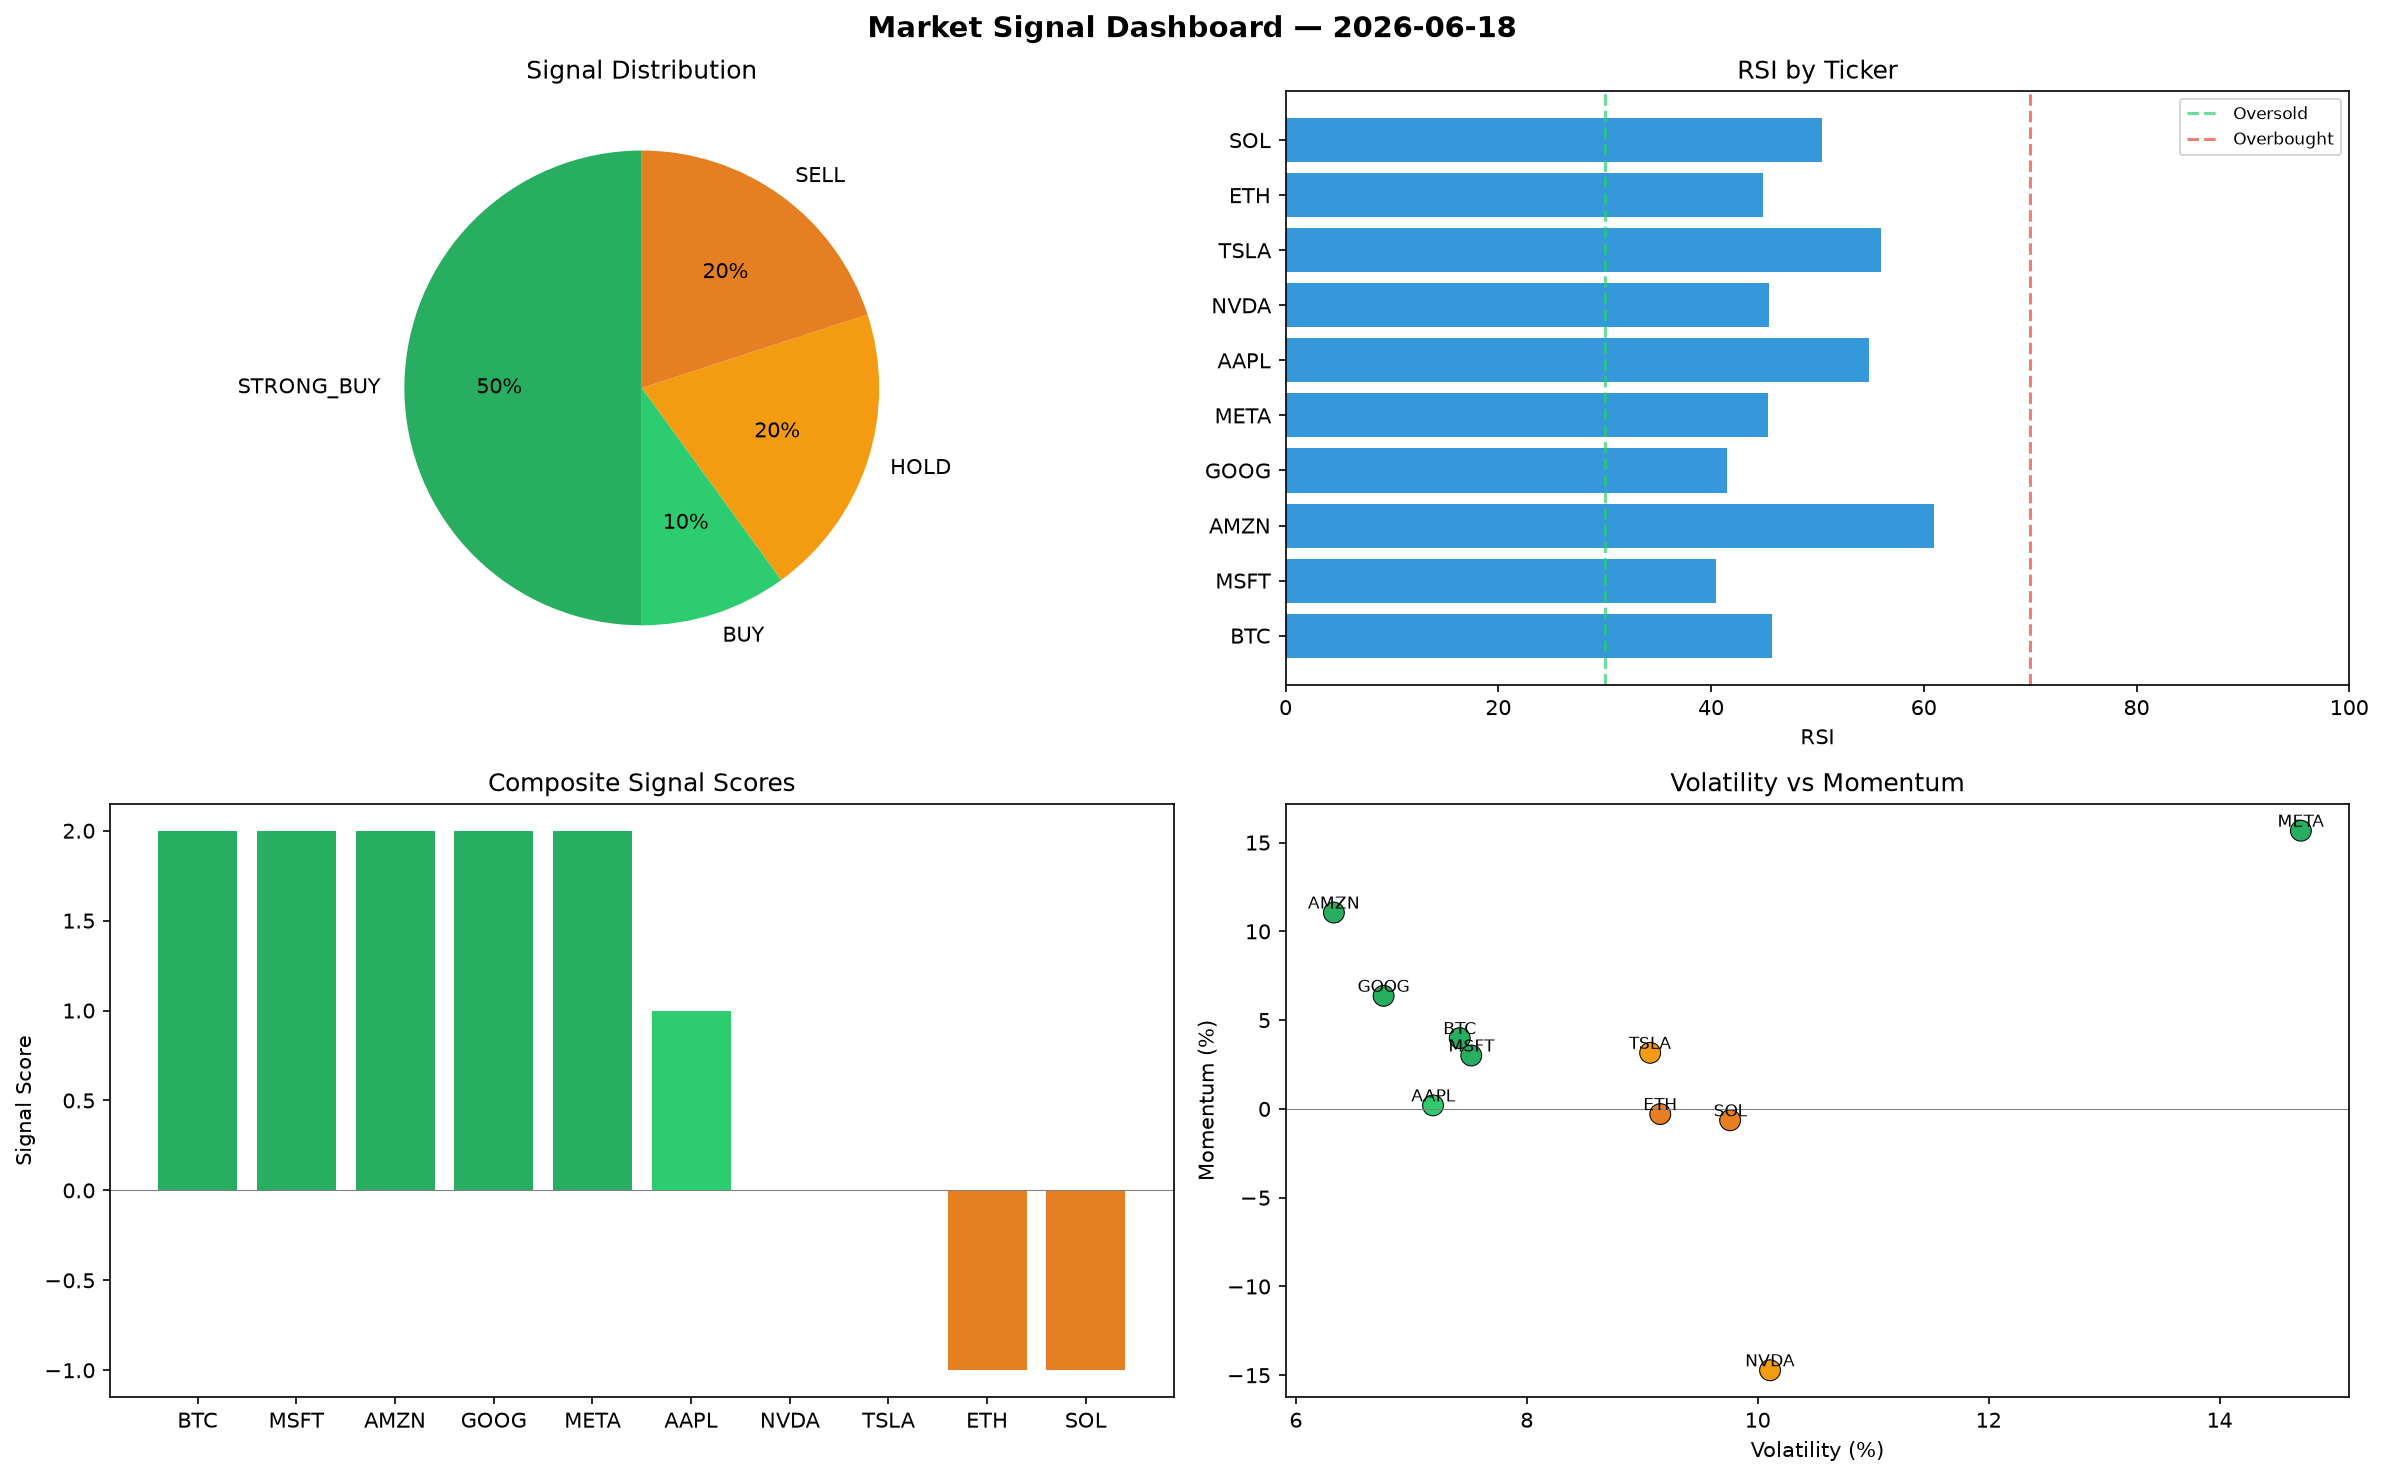
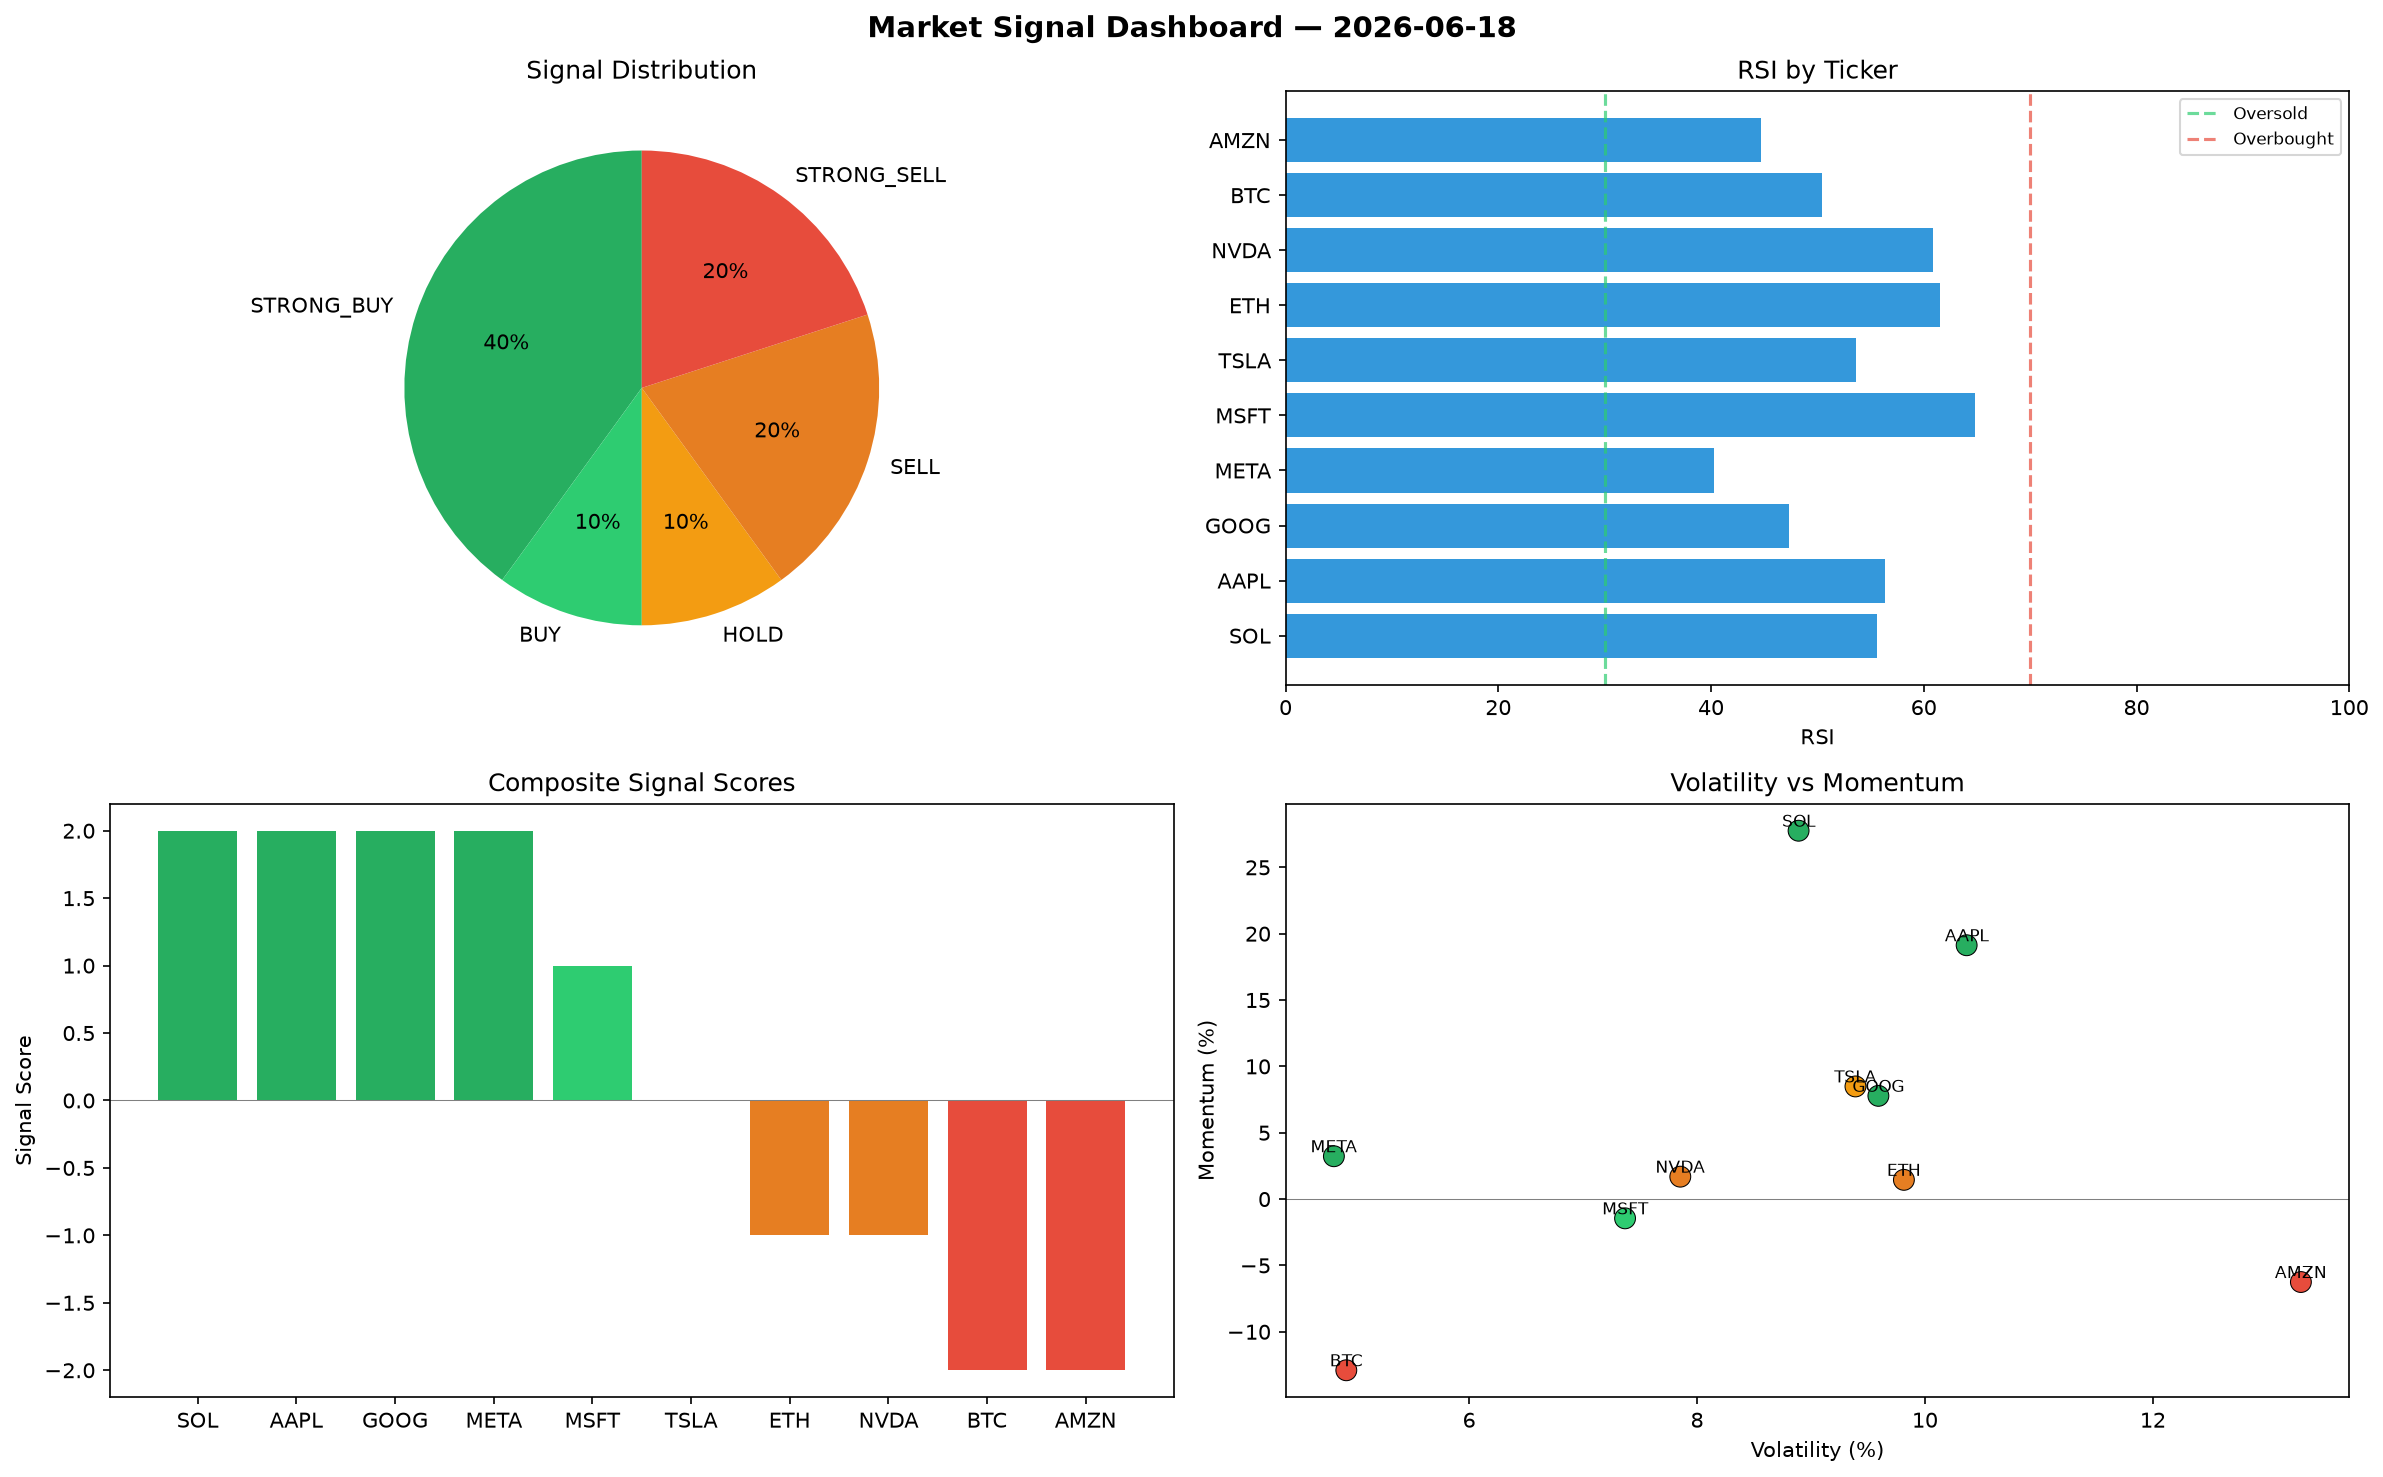
automated-bots: market signals 2026-06-18T12:00

diff --git a/logs/2026-06-18.md b/logs/2026-06-18.md
@@ -1,6 +1,6 @@
 # Market Signal Report — 2026-06-18
 
-**Run ID:** `9ae159a395` | **Buy:** 6 | **Sell:** 2 | **Hold:** 2
+**Run ID:** `776ceeef61` | **Buy:** 5 | **Sell:** 4 | **Hold:** 1
 
 ![Dashboard](2026-06-18_dashboard.png)
 
@@ -8,28 +8,28 @@
 
 | Ticker | Price | Signal | Score | RSI | Momentum | Confidence |
 |--------|-------|--------|-------|-----|----------|------------|
-| BTC | $669.71 | **STRONG_BUY** | 2 | 45.76 | 0.0399 | 0.5 |
-| MSFT | $1061.92 | **STRONG_BUY** | 2 | 40.47 | 0.0301 | 0.5 |
-| AMZN | $408.04 | **STRONG_BUY** | 2 | 60.98 | 0.1106 | 0.5 |
-| GOOG | $3420.68 | **STRONG_BUY** | 2 | 41.54 | 0.0637 | 0.5 |
-| META | $1111.08 | **STRONG_BUY** | 2 | 45.31 | 0.1567 | 0.5 |
-| AAPL | $1876.19 | **BUY** | 1 | 54.84 | 0.002 | 0.25 |
-| NVDA | $3221.4 | **HOLD** | 0 | 45.44 | -0.1472 | 0.0 |
-| TSLA | $104.82 | **HOLD** | 0 | 55.94 | 0.0316 | 0.0 |
-| ETH | $802.92 | **SELL** | -1 | 44.93 | -0.0029 | 0.25 |
-| SOL | $2122.03 | **SELL** | -1 | 50.39 | -0.0064 | 0.25 |
+| SOL | $3204.12 | **STRONG_BUY** | 2 | 55.63 | 0.2776 | 0.5 |
+| AAPL | $4755.89 | **STRONG_BUY** | 2 | 56.32 | 0.1913 | 0.5 |
+| GOOG | $3566.87 | **STRONG_BUY** | 2 | 47.35 | 0.0778 | 0.5 |
+| META | $3878.58 | **STRONG_BUY** | 2 | 40.24 | 0.0323 | 0.5 |
+| MSFT | $3565.27 | **BUY** | 1 | 64.83 | -0.0145 | 0.25 |
+| TSLA | $4365.85 | **HOLD** | 0 | 53.65 | 0.0849 | 0.0 |
+| ETH | $499.04 | **SELL** | -1 | 61.53 | 0.0145 | 0.25 |
+| NVDA | $3963.11 | **SELL** | -1 | 60.91 | 0.0169 | 0.25 |
+| BTC | $23.69 | **STRONG_SELL** | -2 | 50.4 | -0.129 | 0.5 |
+| AMZN | $1844.74 | **STRONG_SELL** | -2 | 44.68 | -0.0625 | 0.5 |
 
 ## Delta vs Yesterday
 
 | Ticker | Today | Yesterday | Price Change | Signal Changed |
 |--------|-------|-----------|-------------|----------------|
-| BTC | STRONG_BUY | STRONG_BUY | 📉 -64.06% | — |
-| MSFT | STRONG_BUY | HOLD | 📉 -44.11% | ⚠ YES |
-| AMZN | STRONG_BUY | HOLD | 📉 -63.35% | ⚠ YES |
-| GOOG | STRONG_BUY | BUY | 📈 180.76% | ⚠ YES |
-| META | STRONG_BUY | HOLD | 📉 -50.59% | ⚠ YES |
-| AAPL | BUY | HOLD | 📉 -52.81% | ⚠ YES |
-| NVDA | HOLD | STRONG_SELL | 📉 -30.76% | ⚠ YES |
-| TSLA | HOLD | STRONG_SELL | 📉 -88.4% | ⚠ YES |
-| ETH | SELL | SELL | 📉 -53.84% | — |
-| SOL | SELL | SELL | 📈 10.01% | — |
+| SOL | STRONG_BUY | SELL | 📈 66.11% | ⚠ YES |
+| AAPL | STRONG_BUY | HOLD | 📈 19.63% | ⚠ YES |
+| GOOG | STRONG_BUY | BUY | 📈 192.76% | ⚠ YES |
+| META | STRONG_BUY | HOLD | 📈 72.47% | ⚠ YES |
+| MSFT | BUY | HOLD | 📈 87.64% | ⚠ YES |
+| TSLA | HOLD | STRONG_SELL | 📈 383.16% | ⚠ YES |
+| ETH | SELL | SELL | 📉 -71.31% | — |
+| NVDA | SELL | STRONG_SELL | 📉 -14.82% | ⚠ YES |
+| BTC | STRONG_SELL | STRONG_BUY | 📉 -98.73% | ⚠ YES |
+| AMZN | STRONG_SELL | HOLD | 📈 65.69% | ⚠ YES |
